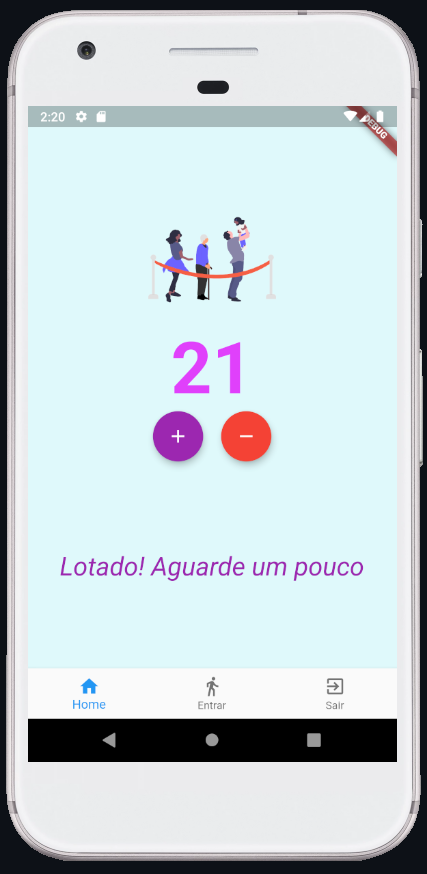
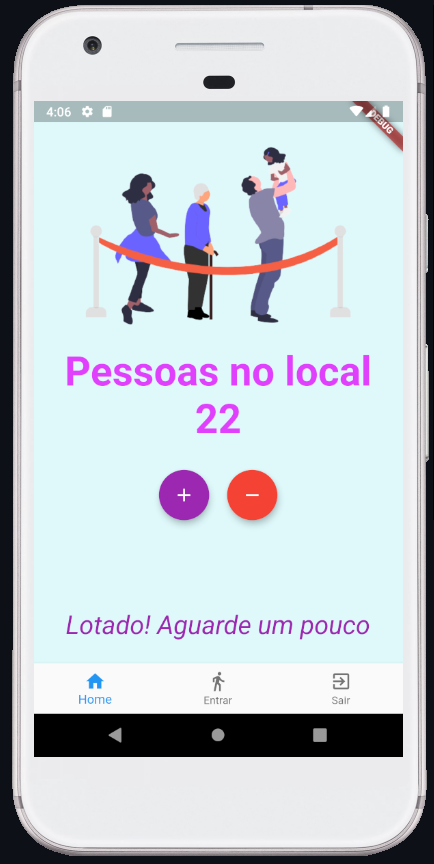
condicional adicionada

Changed region(s): [[0.0, 0.0, 1.0, 1.0], [0.1218, 0.625, 0.3349, 0.6562]]

diff --git a/lib/main.dart b/lib/main.dart
@@ -16,12 +16,16 @@ class _HomeState extends State<Home> {
   int _people = 0;
   String _infoText = "Espaço liberado, bem vindo(a)";
 
-  void _changePeople(int delta) {
+
+  _changePeople(int delta) {
+    
+   
+
     setState(() {
       _people += delta;
 
-      if (_people < 0) {
-        _infoText = "mundo invertido?";
+      if (_people == 0) {
+        return null;
       } else if (_people <= 20) {
         _infoText = "Espaço liberado, bem vindo(a)";
       } else {
@@ -45,16 +49,20 @@ class _HomeState extends State<Home> {
                 children: <Widget>[
                   Image.asset(
                     'images/fila.png',
-                    width: 180,
-                    height: 150,
+                    width: 380,
+                    height: 250,
                   ),
                   Text(
-                    '$_people',
+                    'Pessoas no local    $_people',
+                    textAlign: TextAlign.center,
                     style: TextStyle(
                       color: Colors.purpleAccent,
                       fontWeight: FontWeight.bold,
-                      fontSize: 80,
+                      fontSize: 45,
                     ),
+                  ),
+                   SizedBox(
+                    height: 30,
                   ),
                   Row(
                     mainAxisAlignment: MainAxisAlignment.center,
@@ -69,7 +77,12 @@ class _HomeState extends State<Home> {
                         width: 20,
                       ),
                       FloatingActionButton(
-                        onPressed: () => {_changePeople(-1)},
+                        onPressed: () => {if (_people == 0) {
+                          null
+                        } else {
+                       _changePeople(-1)  
+                        },
+                          },
                         tooltip: 'Remove',
                         child: Icon(Icons.remove),
                         backgroundColor: Colors.red,
@@ -90,15 +103,10 @@ class _HomeState extends State<Home> {
           ],
         ),
         bottomNavigationBar:
-            BottomNavigationBar(
-
-              
-              items: <BottomNavigationBarItem>[
+            BottomNavigationBar(items: <BottomNavigationBarItem>[
           BottomNavigationBarItem(
-            
             icon: Icon(Icons.home),
             label: 'Home',
-             
           ),
           BottomNavigationBarItem(
             icon: Icon(Icons.directions_walk),
